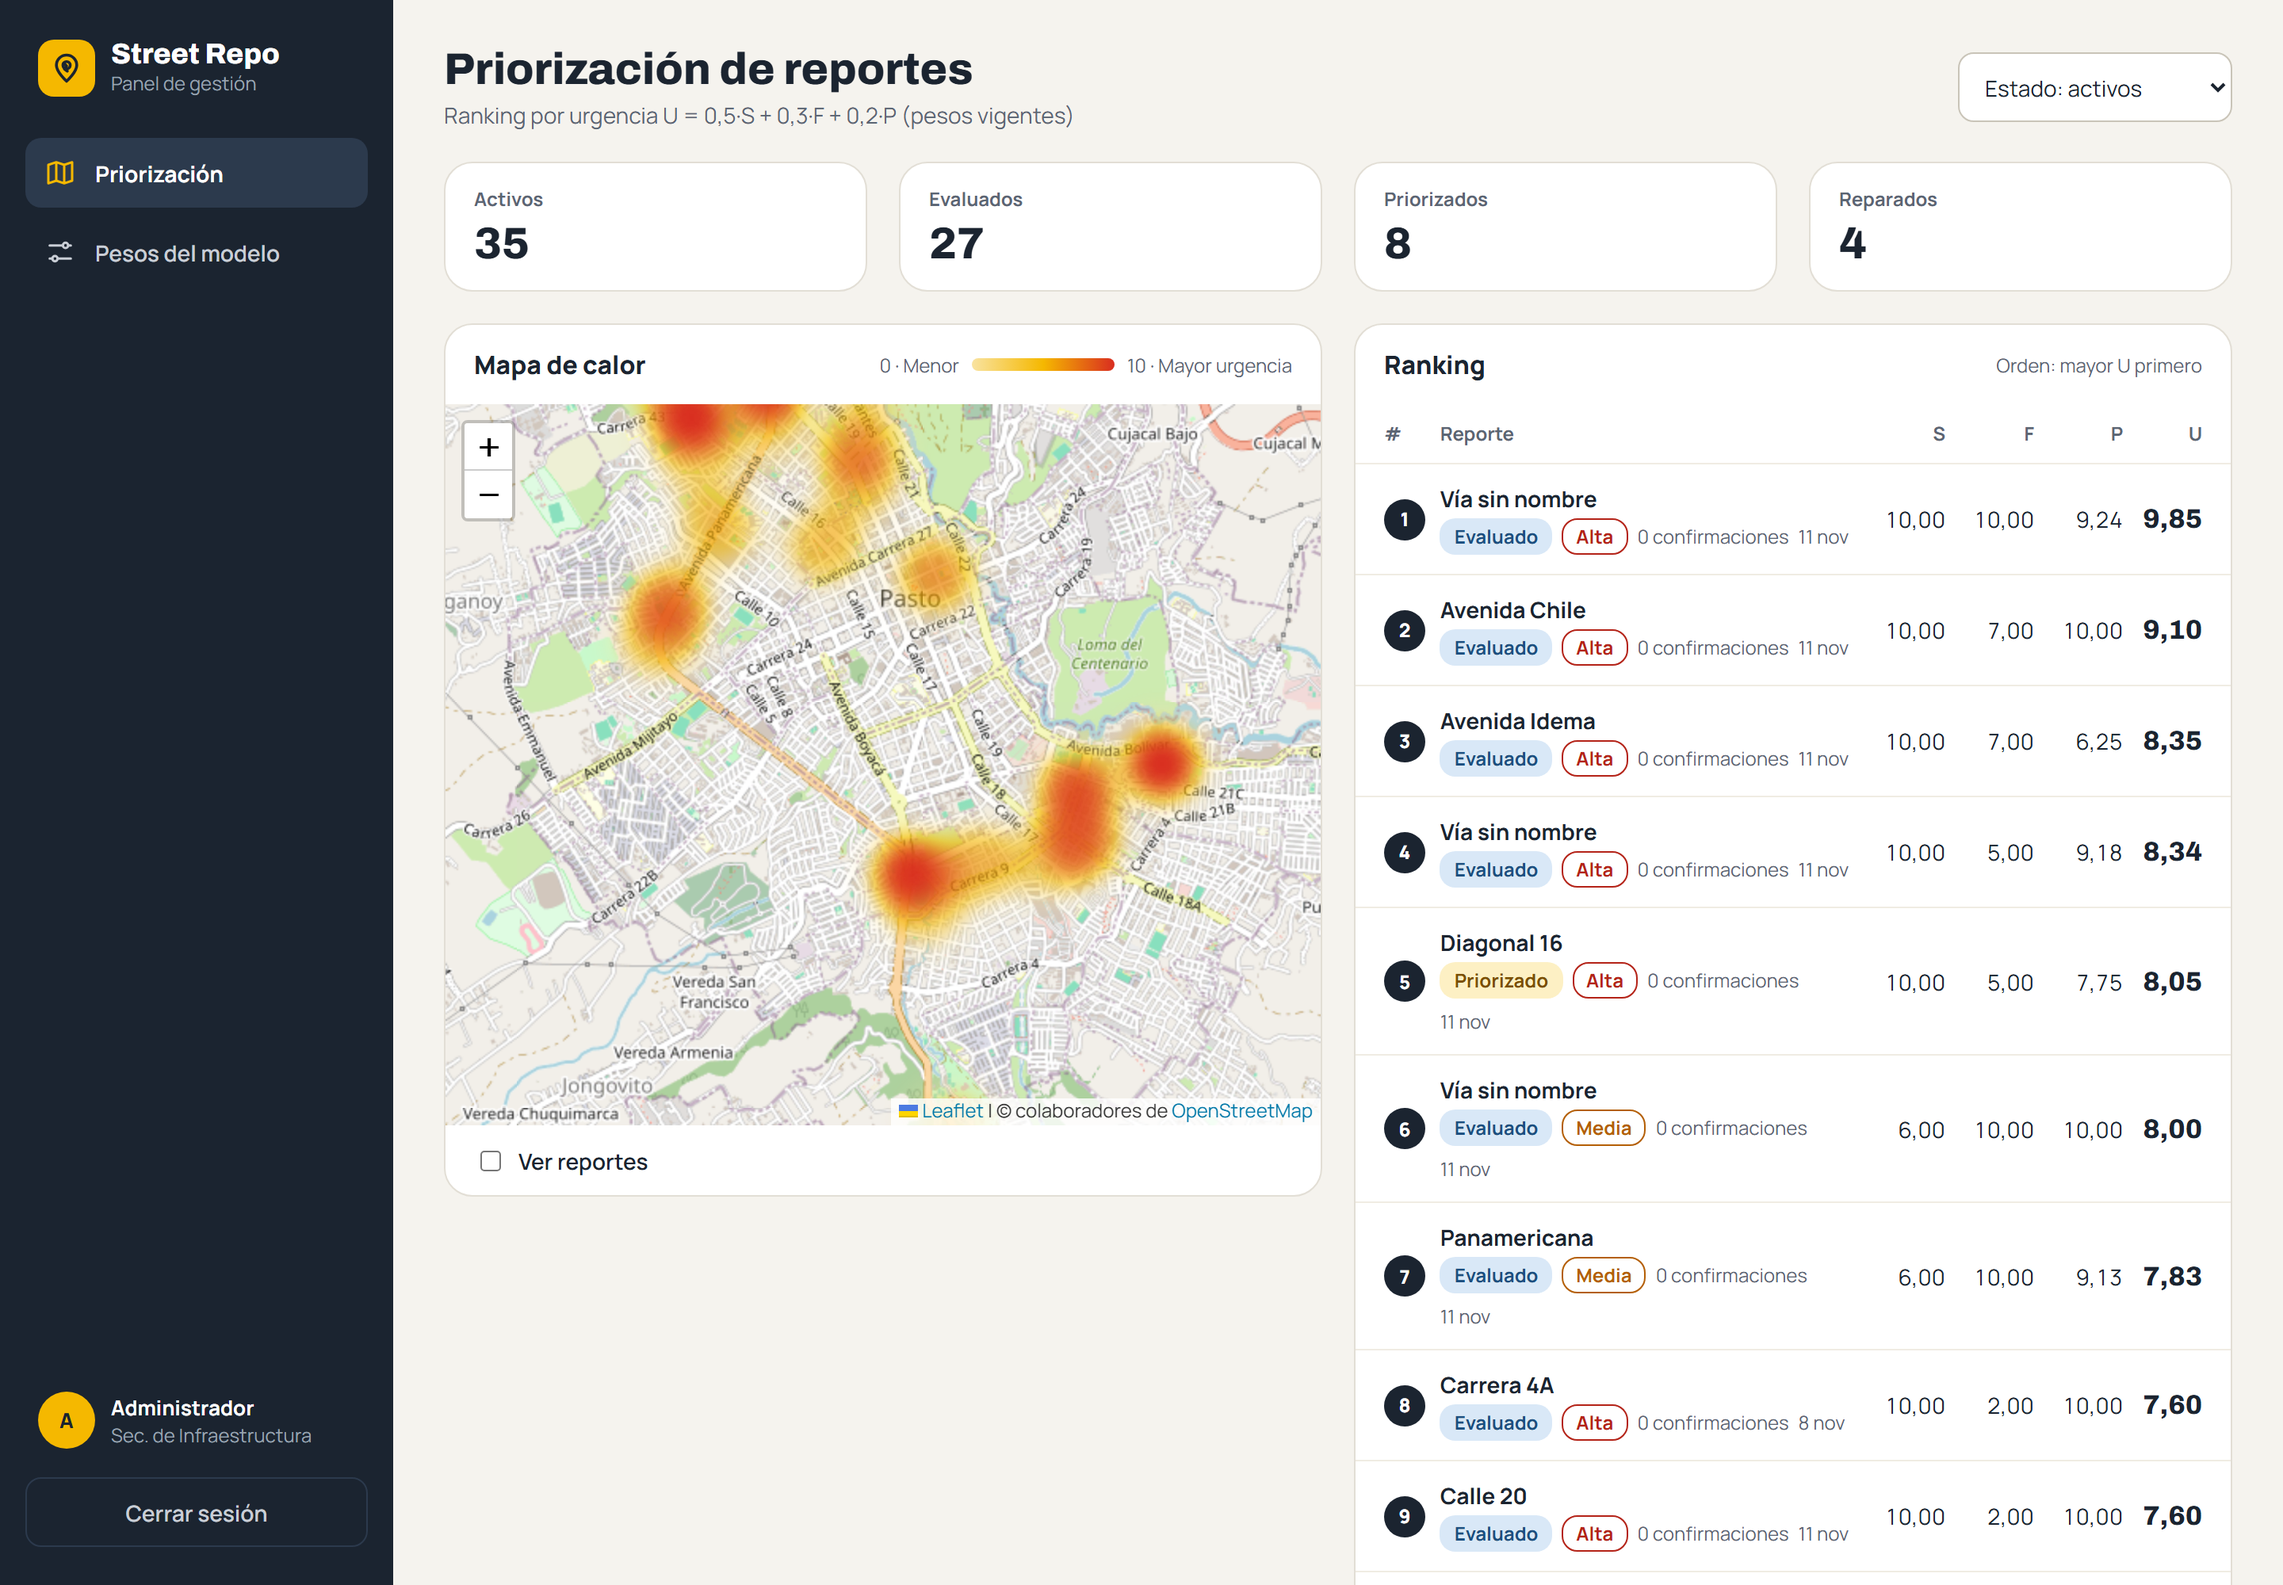
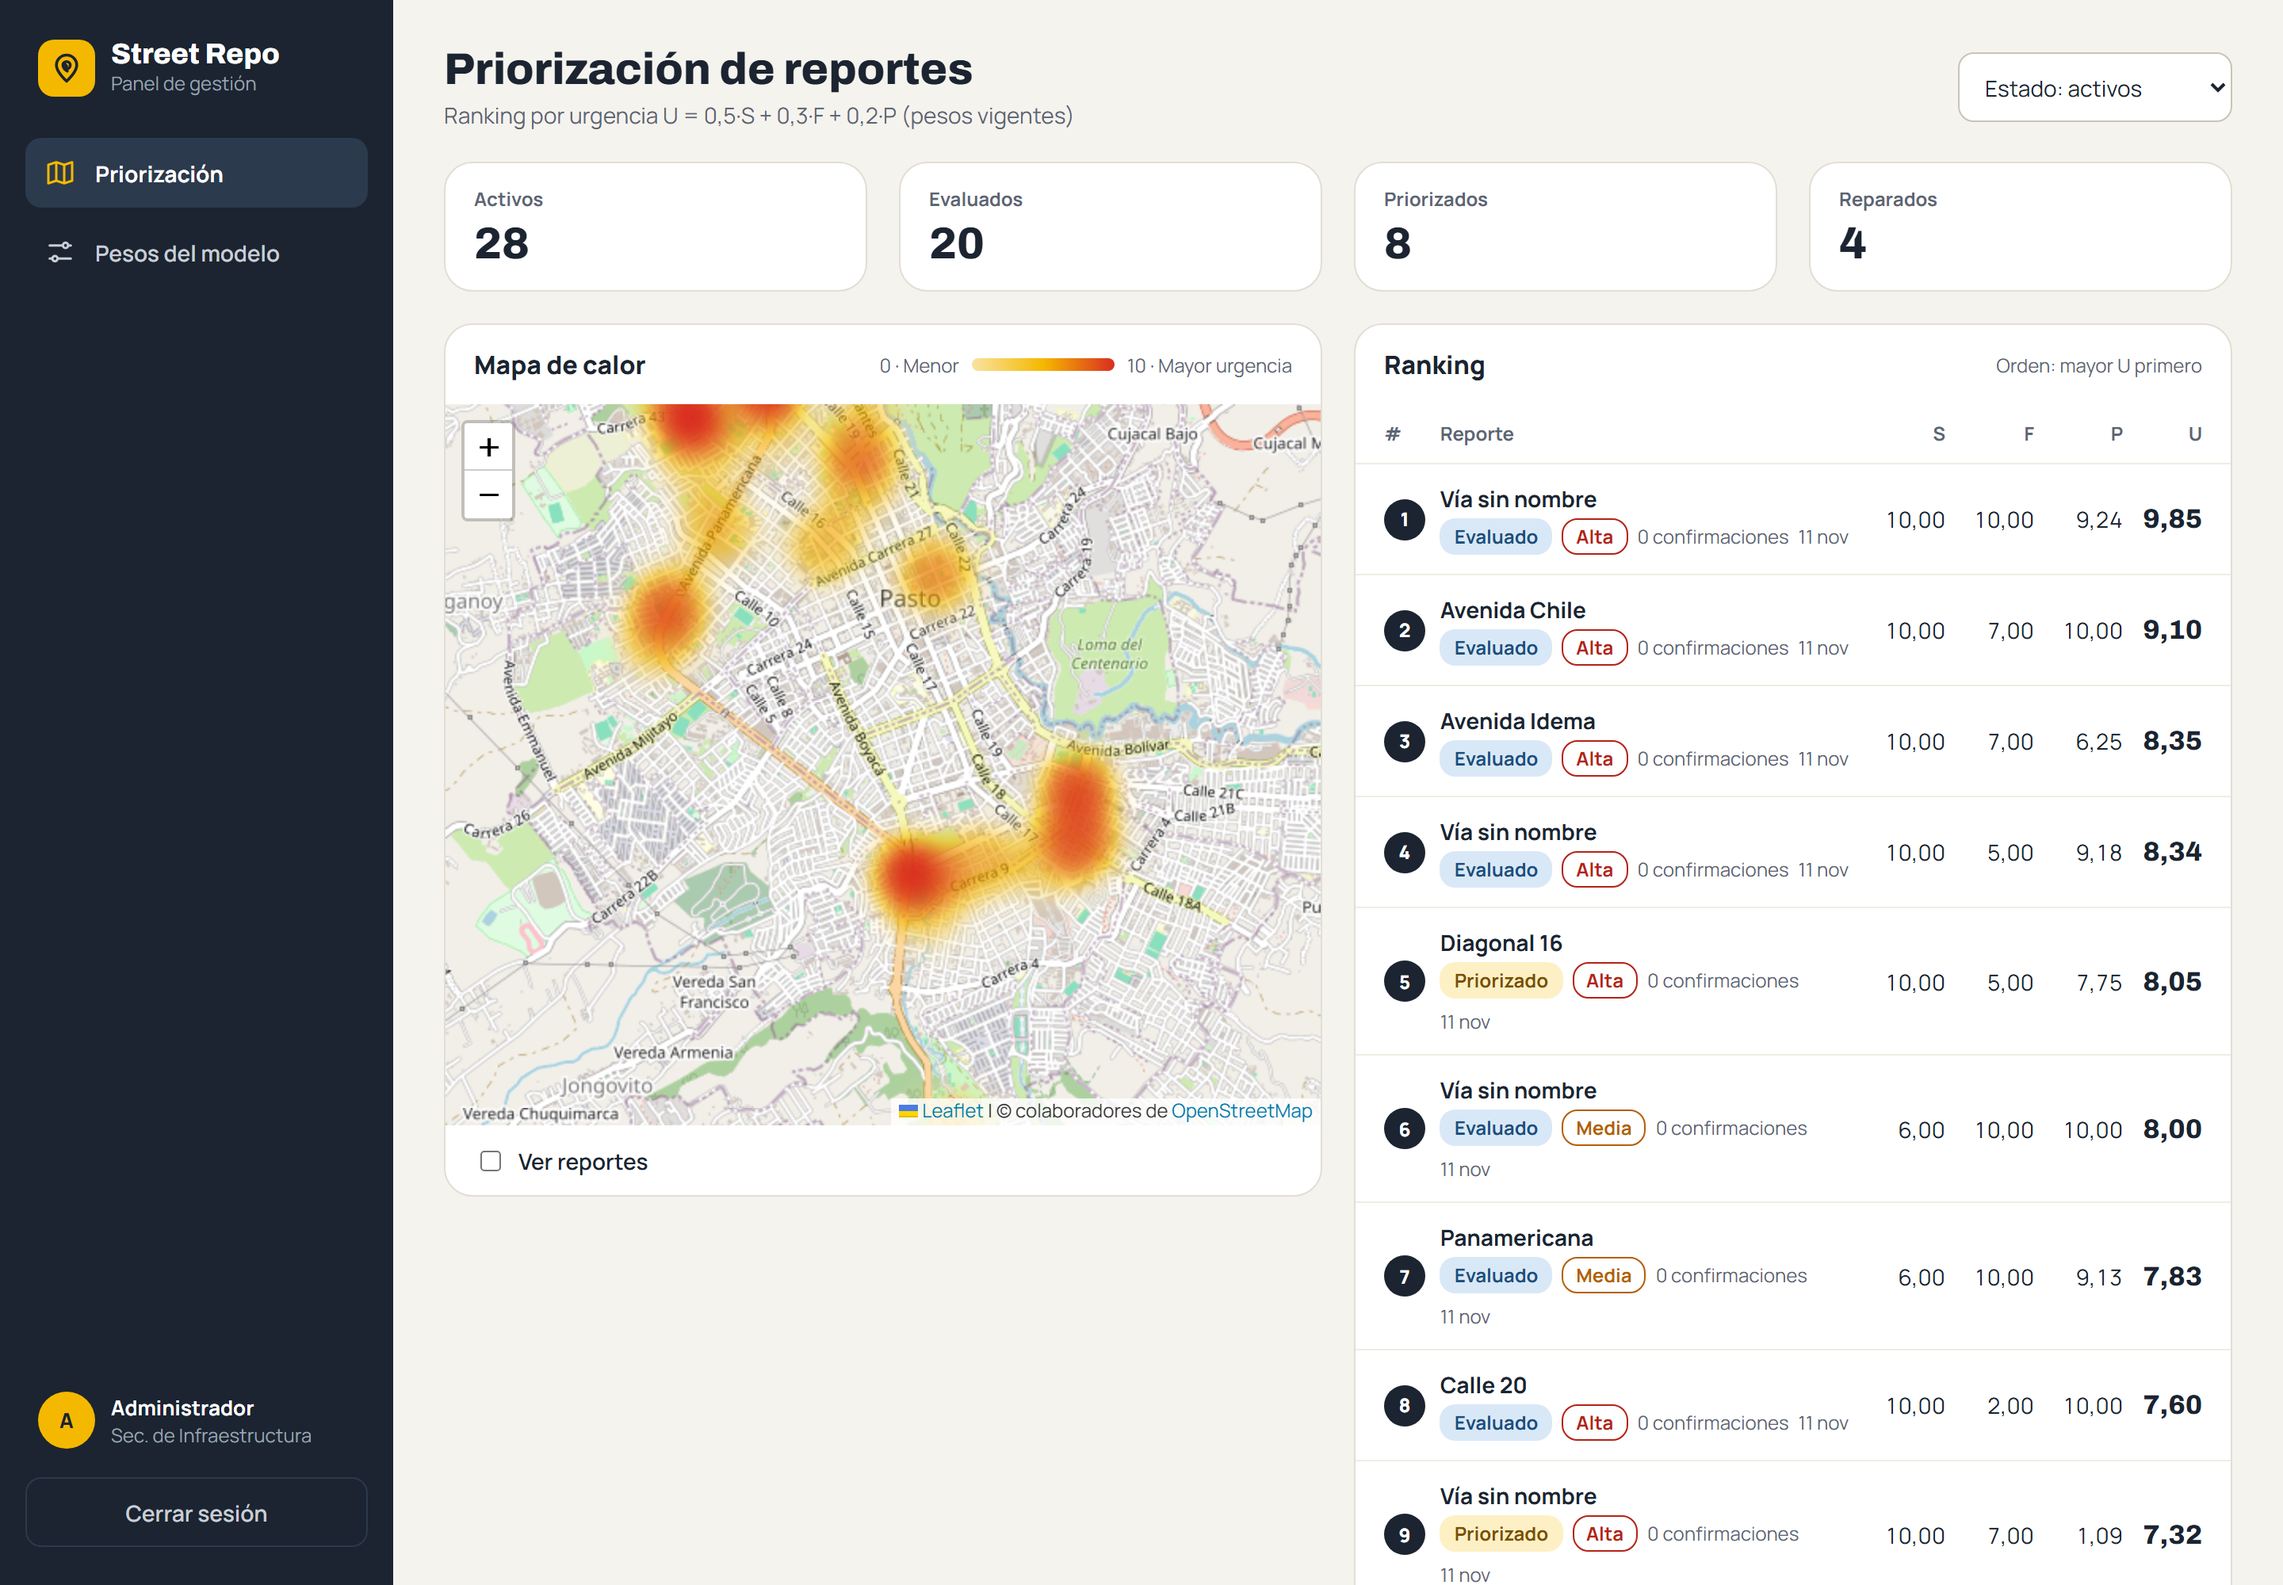
docs: repetir las capturas del objetivo 3 solo con datos de demostración
Las capturas anteriores mezclaban en el ranking los 7 reportes de la
prueba en el celular con los 32 de demostración (35 activos). Se
repiten contra una base nueva del stack de pruebas que solo tiene los
datos de OSM y los de seed-demo: 32 reportes, 28 activos y 4 reparados,
pesos iniciales y una sola versión de configuración.

El README de las capturas y la bitácora (fila 90) dicen cómo se tomaron.
La base de desarrollo no se tocó.

Verificación: las nueve capturas revisadas una a una (indicadores 28 ·
20 · 8 · 4, todas las filas con fecha del 11 nov, detalles con
«Ciudadano de demostración» como autor y foto marcada DEMO).

Refs: HU-08, HU-12, HU-14

Claude-Session: https://claude.ai/code/session_01DbLM4jyGHqu1VEnA35yMv5

Changed region(s): [[0.5938, 0.93, 0.9688, 1.0], [0.4688, 0.434, 0.5312, 0.527], [0.6562, 0.868, 0.6875, 0.899]]

diff --git a/docs/bitacora.md b/docs/bitacora.md
@@ -93,3 +93,4 @@ Fuente única de decisiones y propuestas de Street Repo. Las propuestas solo se 
 | 87 | 2026-11-11 | Corrección | **Jerarquía vial sin traducir en el detalle del panel** (pendiente de la fila 86), rama `fix/admin-web-jerarquia-osm`. El detalle mostraba «vía primary_link»: las etiquetas en español solo cubrían seis de las diez etiquetas `highway` que carga la API (propuesta 7). Se añaden `trunk` («troncal»), `trunk_link` («enlace de troncal»), `primary_link` («enlace de primaria») y `living_street` («de prioridad peatonal»). Solo cambia el texto: F lo sigue calculando el servidor. 144 pruebas del panel | **Aplicada** (2026-11-11) |
 | 88 | 2026-11-11 | Cierre de fase | **Fase 6 cerrada, `v0.6.0`** (tarea 13 del plan, fila 77). Los diez grupos del plan están en `main` con la CI en verde: 736 pruebas del backend (cobertura 99 %), 144 del panel y 3 de punta a punta. `CHANGELOG` con la versión 0.6.0 (incluye lo construido después de `v0.5.0`: la app ciudadana y su backend), versión 0.6.0 en el backend y el panel, bloque «Fase 6» y sección 6.2 de la guía, y README. **Figma** (con la confirmación del responsable): en «Panel · Priorización» (nodo 8:2) se añadió la fila de indicadores Activos · Evaluados · Priorizados · Reparados entre el encabezado y el contenido (nodo 23:2), con los estilos de las tarjetas existentes y valores de ejemplo coherentes con las 6 filas de la maqueta (6 · 2 · 1 · 0). El archivo no tenía indicadores en esa pantalla: los de «prioridad alta» y «en intervención» que reemplaza la propuesta 75 venían de la maqueta descrita en la tesis, y por eso el ajuste del documento queda en `docs/ajustes-tesis.md`. **Las capturas del objetivo 3 para la tesis usan los datos de demostración** de `seed-demo` y se presentan como demostración de funcionamiento, no como resultados de campo (decisión 76). Quedan sin tocar en el Figma los menús «Reportes», «Datos OSM» y «Comparación» y el filtro «Todas las zonas», que el panel construido no tiene (fuera del alcance de la decisión 76) | **Aplicada** (2026-11-11) |
 | 89 | 2026-11-11 | Resultado (evidencia) | **Capturas del panel para el objetivo 3**, rama `docs/capturas-objetivo-3`: nueve capturas en `docs/capturas/objetivo-3/` (inicio de sesión, Priorización con mapa de calor y ranking, filtro por estado, detalle de un reporte priorizado y de uno sin vía, y Pesos del modelo con la suma inválida), tomadas con `v0.6.0` en el stack de desarrollo tras cargar `seed-demo`. **Son demostración de funcionamiento, no resultados de campo** (decisión 76). El ranking mezcla los 7 reportes de la prueba en el celular con los 32 de demostración (35 activos); los dos detalles son de reportes de demostración: una primera tanda eligió un reporte real con la foto de una persona y se descartó sin confirmarla. Para entrar se creó una cuenta de administrador temporal, borrada al terminar; no se cambiaron estados ni pesos. **Revisado y sin cambios:** la barra lateral parecía cortarse en la captura de página completa, pero es fija (`position: sticky`, alto de la ventana) y se mantiene al desplazar; era un artefacto de la captura, que se rehízo con una ventana tan alta como la página | **Aplicada** (2026-11-11) |
+| 90 | 2026-11-11 | Resultado (evidencia) | **Capturas del objetivo 3 repetidas solo con datos de demostración** (sustituyen a las de la fila 89), rama `docs/capturas-solo-demostracion`. Las de la fila 89 mezclaban en el ranking los 7 reportes de la prueba en el celular con los 32 de demostración (35 activos). Las nuevas se tomaron en el stack aparte de pruebas (proyecto `street-repo-e2e`), contra una base nueva (`streetrepo_capturas`) con las migraciones, las vías y los servicios críticos copiados de la base de pruebas E2E (sin volver a consultar Overpass) y `seed-demo`: 32 reportes, 28 activos (20 evaluados y 8 priorizados) y 4 reparados, pesos iniciales y una sola versión de configuración. Las nueve se revisaron una a una antes de confirmarlas. La base de desarrollo no se tocó: conserva los reportes reales y los de demostración cargados para la fila 89. La base `streetrepo_capturas` queda en el volumen del stack de pruebas, que es desechable | **Aplicada** (2026-11-11) |

diff --git a/docs/capturas/objetivo-3/README.md b/docs/capturas/objetivo-3/README.md
@@ -1,8 +1,9 @@
 # Capturas del panel administrativo (objetivo 3)
 
-Capturas del panel tomadas el 2026-11-11 con la versión `v0.6.0`, en el equipo del responsable
-(stack de Docker Compose, panel en `http://localhost:8080`), con Chromium a 1440 × 1000 y doble
-resolución.
+Capturas del panel tomadas el 2026-11-11 con la versión `v0.6.0`, en el equipo del responsable,
+con Chromium a 1440 × 1000 y doble resolución. Se tomaron en el stack aparte de pruebas
+(proyecto `street-repo-e2e` de Docker Compose, panel en `http://localhost:8081`), contra una base
+nueva que **solo tiene los datos de OSM y los de demostración**.
 
 **Son una demostración de funcionamiento, no resultados de campo** (decisión 76 de la
 [bitácora](../../bitacora.md)). Los datos vienen de `python -m app.cli seed-demo`: 32 reportes de
@@ -23,16 +24,17 @@ llevan la franja «DEMO · imagen generada, no es una foto de campo».
 
 ## Qué tener en cuenta al usarlas
 
-- **El ranking mezcla 7 reportes de la prueba en el celular con los 32 de demostración.** Por eso
-  los indicadores muestran 35 activos y en las capturas 02 a 05 aparecen filas con fecha «8 nov» y
-  «21 oct». Los dos detalles (06 y 07) son de reportes de demostración.
+- **Todos los reportes que aparecen son de demostración**: 32 en total (28 activos: 20 evaluados y
+  8 priorizados; 4 reparados). No hay reportes de la prueba en el celular ni de ninguna persona.
 - Los reportes de demostración tienen todos la fecha del día en que se cargaron («11 nov»).
 - Los pesos son los iniciales (0,5 / 0,3 / 0,2): preliminares hasta la validación con el panel de
-  expertos.
+  expertos. La lista de versiones muestra solo la configuración inicial.
 - La captura 03 se tomó con una ventana tan alta como la página, para que quepa el ranking entero.
+- El nombre «Administrador» de la barra lateral es el de una cuenta creada solo para las capturas.
 
 ## Cómo repetirlas
 
-Con el stack levantado (README de la raíz, sección «Panel administrativo»): crear un administrador
-con `create-admin`, cargar `seed-demo` y recorrer las pantallas. Las pruebas de punta a punta
-(`infra/scripts/e2e-panel.sh`) recorren los mismos flujos en un stack aparte.
+Con una base que solo tenga los datos de OSM: crear un administrador con `create-admin`, cargar
+`seed-demo` y recorrer las pantallas (README de la raíz, sección «Panel administrativo»). Si la
+base tiene otros reportes, aparecerán mezclados en el ranking y en los indicadores. Las pruebas de
+punta a punta (`infra/scripts/e2e-panel.sh`) recorren los mismos flujos en el stack aparte.
